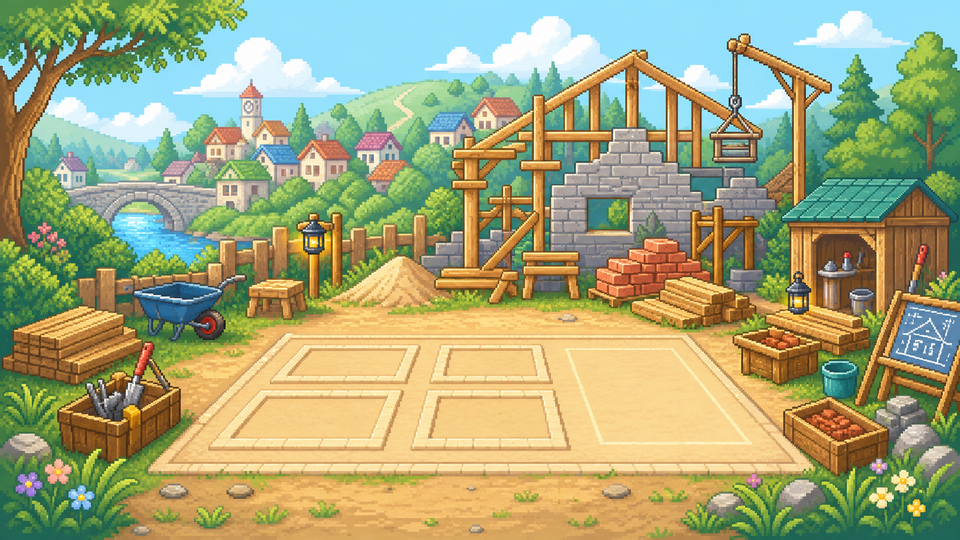
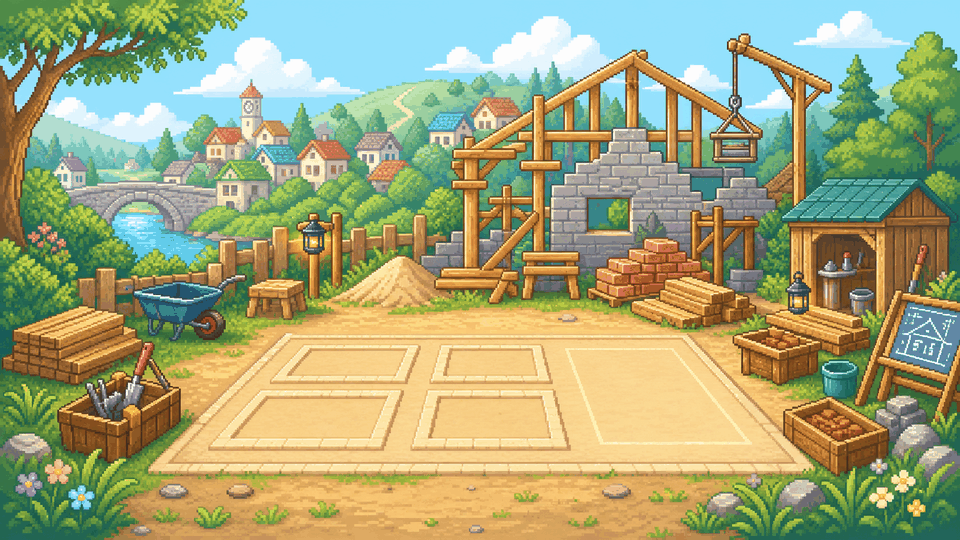
Overhaul Cycle 18: optimize the heavy build-lot backdrop (988KB -> 264KB)
Pillow (from the sprite pipeline) is available, so the deferred build-lot.png
compression got done: 960x540 RGB -> adaptive 256-colour palette + optimize =
264KB (-73%), no visible banding (painted backdrop behind game elements). e2e
proves it still loads non-blank + the full playthrough renders error-free.

Gates: typecheck clean, 168/168 unit, build ok, e2e 8/8.

diff --git a/docs/planning/quality-overhaul.md b/docs/planning/quality-overhaul.md
@@ -341,3 +341,13 @@ asteroid-blaster (Aim) + bread-rush (Match). **The two remaining steps are human
   that lived in the deleted scene are not lost. Still on shared engines: Aim (frog-flight,
   asteroid-blaster) + Match (bread-rush) — Shane's content call.
 - Gates: GREEN — typecheck clean, **168/168** unit (one journey-data test removed), build ok, **e2e 8/8**.
+
+### Cycle 18 — Polish: optimize the heavy build-lot backdrop
+- Pillow (10.2.0, from the sprite pipeline) is available, so the deferred 988KB `v2/build-lot.png` got
+  compressed: 960×540 RGB → adaptive 256-colour palette + optimize = **264KB (−73%)**, no visible
+  banding (it's a painted backdrop behind game elements). e2e proves it still loads non-blank + the
+  full playthrough renders error-free.
+- Gates: GREEN — typecheck clean, **168/168** unit, build ok, **e2e 8/8**.
+- *Honest note:* the clearly-high-value structural work is now complete (overhaul + consolidation +
+  cleanup + docs + this asset trim). Remaining is genuine polish (per-mission level variety so captured
+  missions feel distinct, audio, town-map cohesion) or the human steps (merge + Willem playtest).
